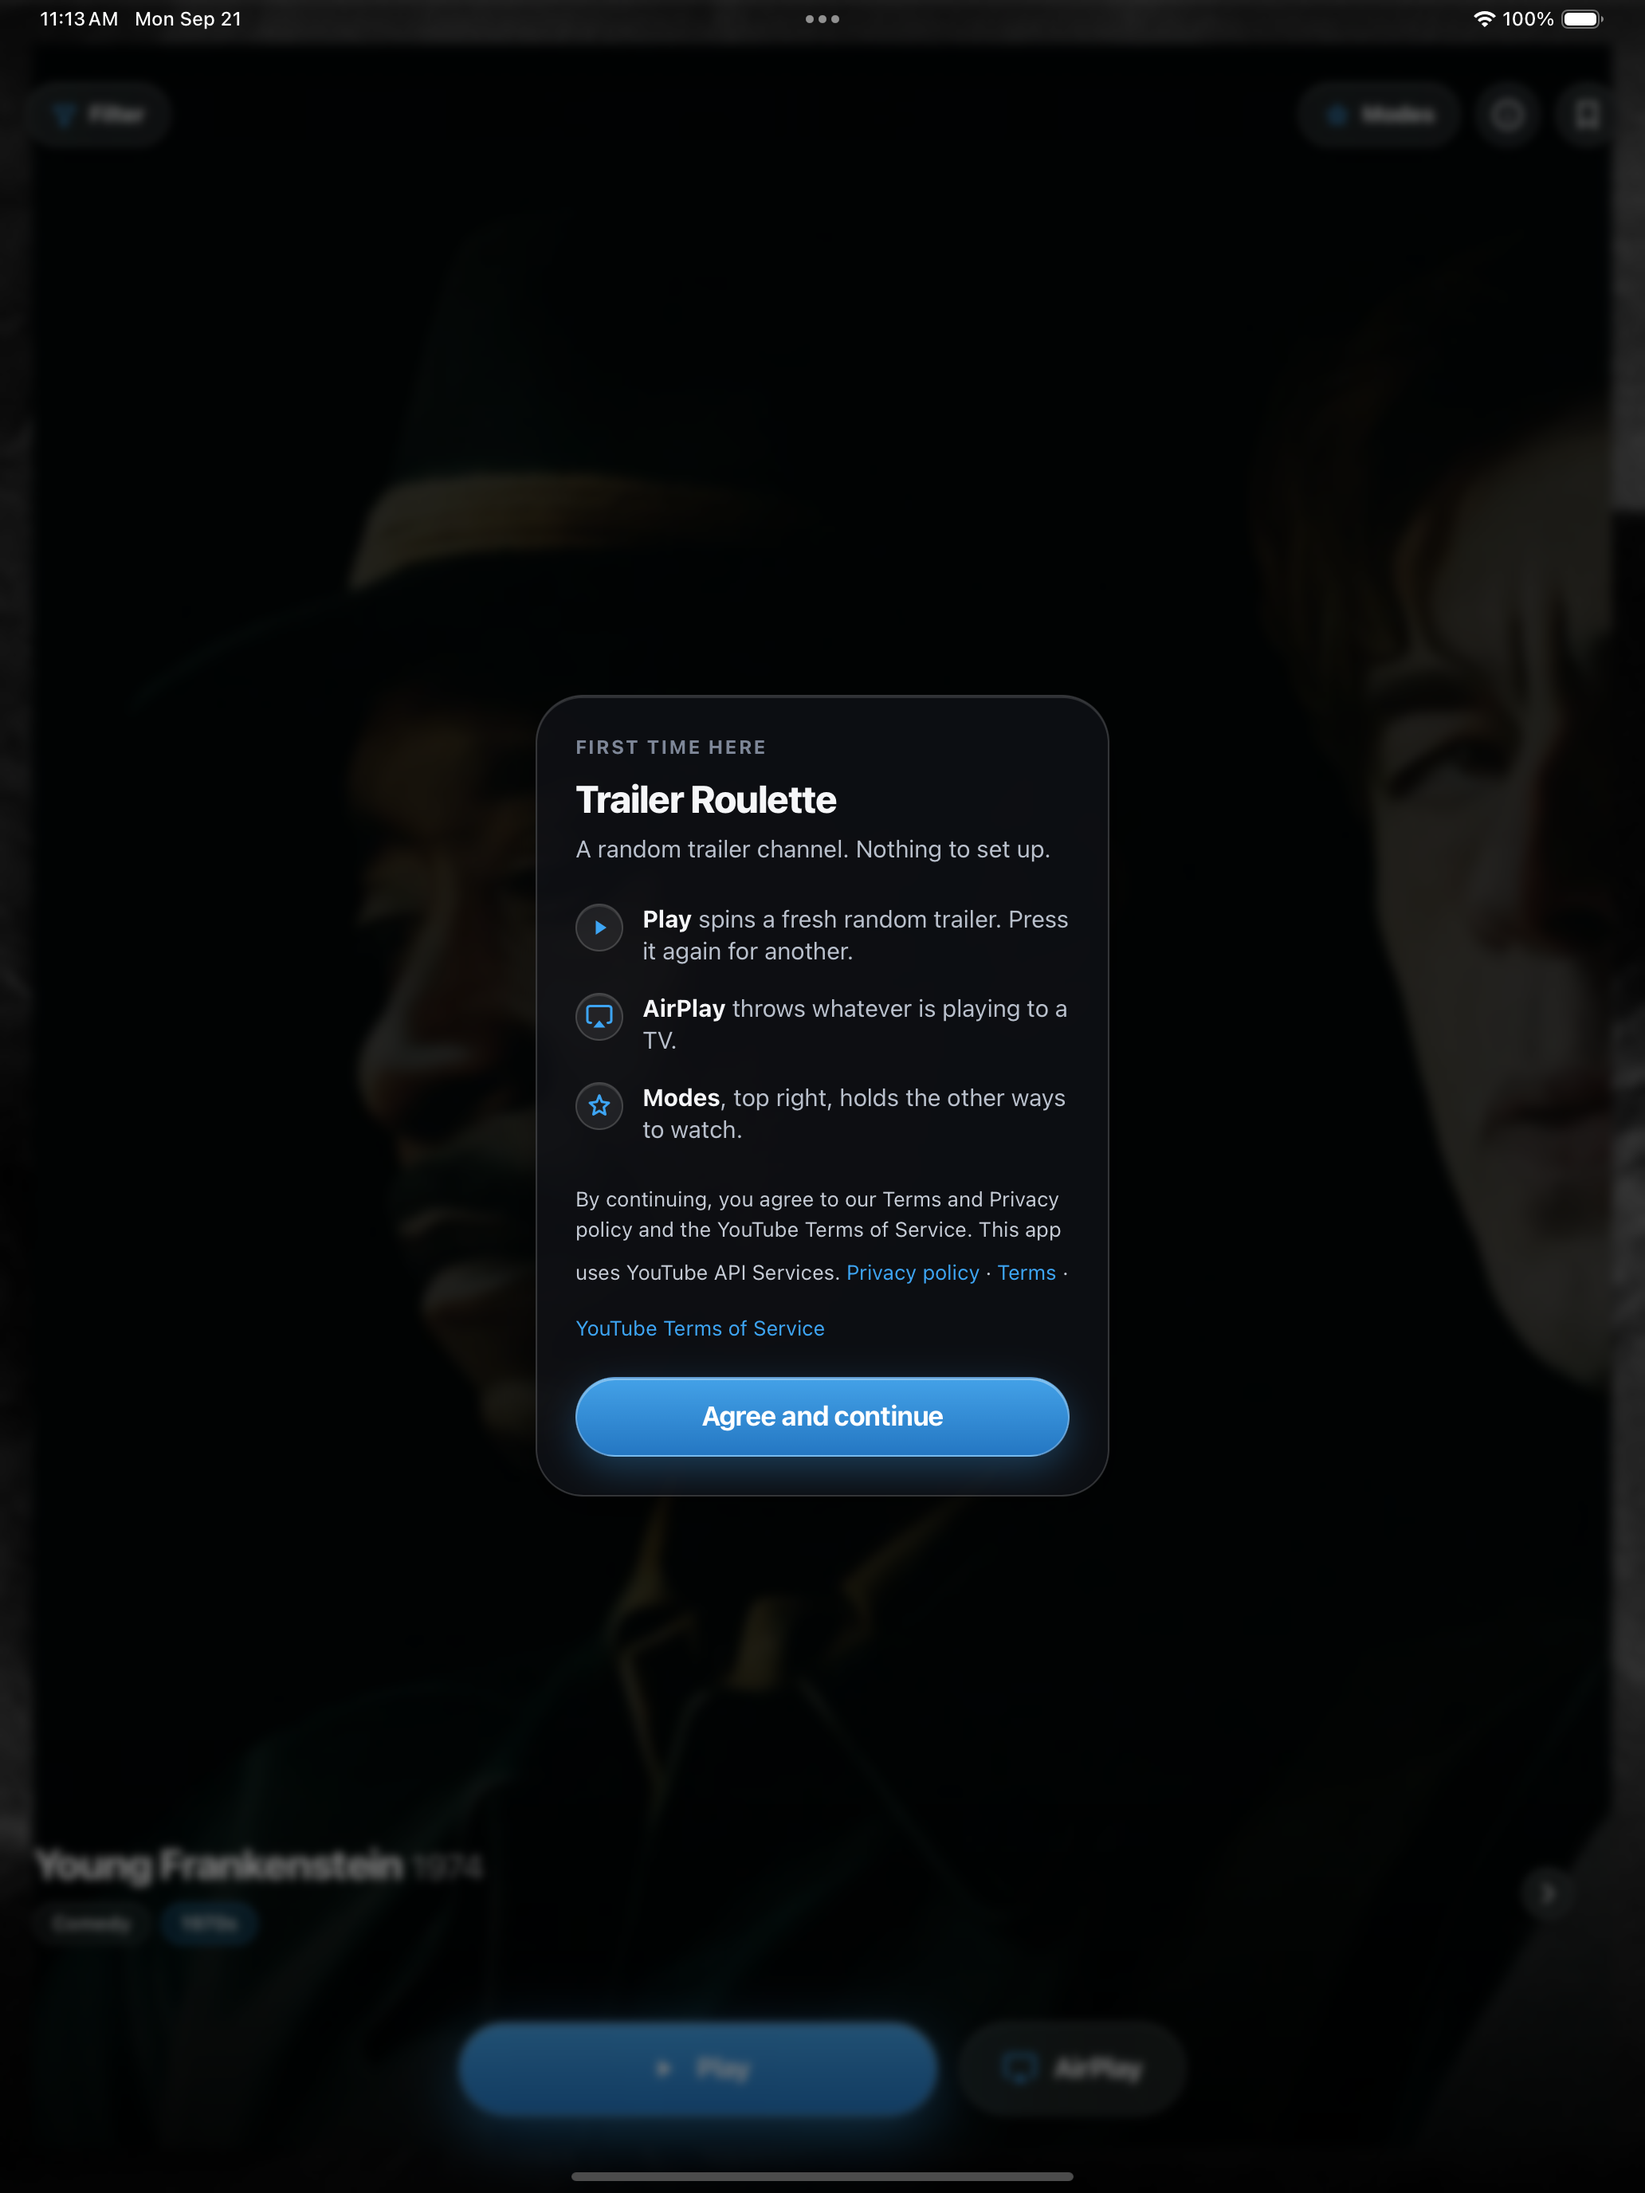
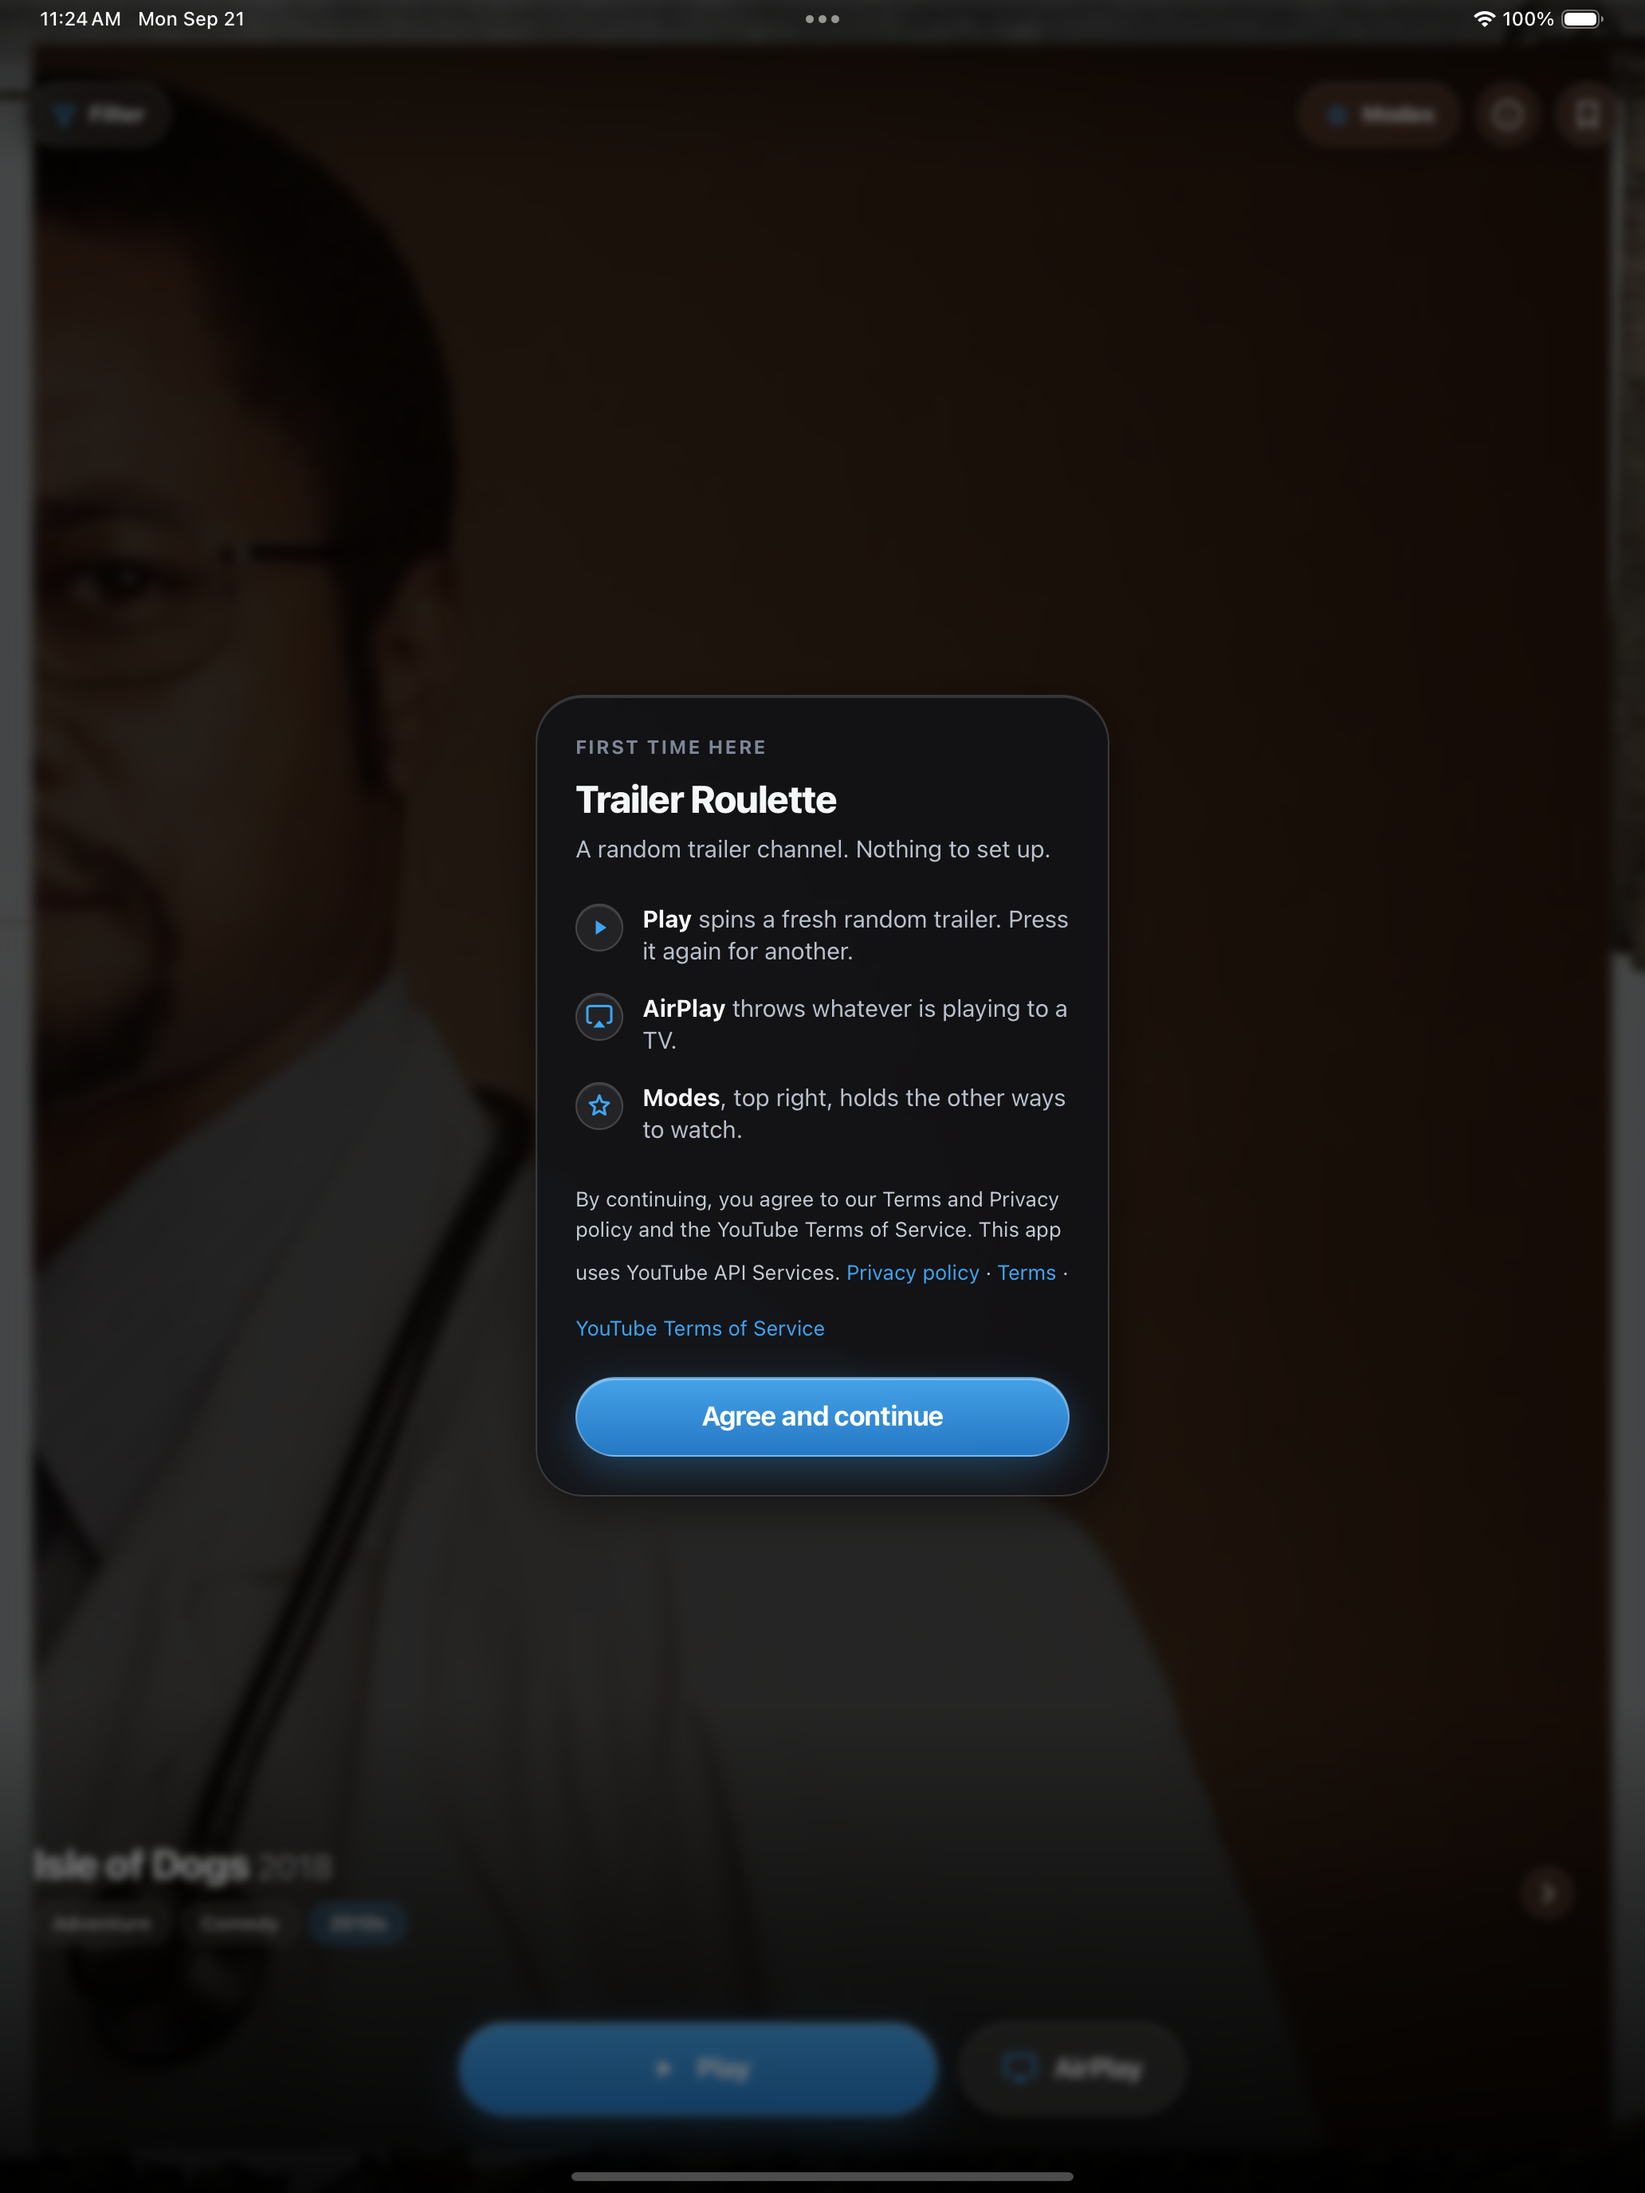
ci(screenshots): abandon the consent preseed after two failures, keep the gate
Preseeding acceptance so the simulator would boot past the consent sheet has now failed twice, both times green and both times silently producing another first-launch frame. First with simctl spawn defaults write, which targets the simulator own defaults domain rather than the app sandbox. Then with a direct write to the data container preferences plist resolved via simctl get_app_container, reading the value back to prove it landed - the read-back is not proof, because the simulator runs its own cfprefsd and a plist written from the host is not what the app sees on next launch. Stopping there rather than trying a third variation of the same idea.

The workflow keeps everything it was actually worth having. One capture per device size, 01-first-launch, at the exact pixel size App Store Connect wants and asserted in CI. It remains the only thing in this repo that runs the app rather than compiling it, and it is what proved the app renders on iOS and that the iPad fix holds on iPadOS rather than only in Chromium. The four near-identical misleading frames are gone; the script and the README both record the two failed approaches so nobody spends the afternoon on a third, and name what getting past the first screen would actually take - an XCUITest target or idb.

Claude-Session: https://claude.ai/code/session_01YbuBXNfF7DbRtekfesvdnd

diff --git a/assets/screenshots/release-3.5.0/native/README.md b/assets/screenshots/release-3.5.0/native/README.md
@@ -4,36 +4,46 @@ Produced by `.github/workflows/ios-screenshots.yml` on a macOS runner, because
 there is no Mac on this project. `xcrun simctl io screenshot` captures at the
 device's native resolution, so these are exactly the sizes App Store Connect
 asks for: **1320 x 2868** (6.9-inch iPhone) and **2064 x 2752** (13-inch iPad).
-The workflow asserts both, so a renamed or resized simulator in a future Xcode
-fails in CI rather than at upload.
+The workflow asserts both and fails on a mismatch, so a renamed or resized
+simulator in a future Xcode is caught in CI rather than at upload.
 
-These are the real iOS renderer, not a browser at phone dimensions. The set
-committed here is from the run that first proved two things:
+These are the real iOS renderer, not a browser at phone dimensions. The first
+run proved two things nothing else in this repo could:
 
 - the app launches and renders on iOS at all — until then, only that it
   compiled;
 - the iPad layout fix (`docs/bugs.md` B7) holds on iPadOS. It had only been
   measured in Chromium at iPad width, which is evidence about the CSS. The
-  13-inch captures fill the screen: no phone-width column, no hairline borders.
+  13-inch capture fills the screen: no phone-width column, no hairline borders.
 
-## What each file is
+## One file per size
 
-- **`01-first-launch`** — fresh container, so the consent sheet is up.
-  Submittable.
-- **`02-after-consent-NNs`** — acceptance preseeded into the app's container
-  plist, so autoplay is armed. A burst at 4, 8, 14 and 22 seconds rather than
-  one guess: the stage is visible only briefly before the native player takes
-  the window, and how long depends on how fast TMDB answers on the runner.
-  Keep whichever lands well. **Any frame showing the player contains YouTube's
-  video** — evidence that the player opens, not a store asset.
+**`01-first-launch`** — a fresh container, so the consent sheet is up over the
+stage. Submittable.
 
-## What it still cannot do
+That is all this can produce, and the limit is real rather than an oversight.
 
-Nothing here taps a button, so there are no native captures of Filter, Modes,
-About this movie or Saved movies. Those need the device test in
-`docs/RELEASE-REVIEW-2026-09.md`, or a follow-on that drives the UI (XCUITest
-or idb). The browser drafts one directory up cover those screens' layout and
-copy, at the right pixel sizes, and say plainly what they are.
+## Why there is nothing past the first screen
+
+Nothing here taps a button, and preseeding the consent acceptance so the app
+would boot past it **does not work from a runner**. Two attempts, both of which
+ran green and both of which silently produced another first-launch frame:
+
+1. `xcrun simctl spawn <udid> defaults write <bundle-id> <key> <value>` — writes
+   the simulator's own defaults domain, not the app sandbox.
+2. `defaults write` against the data container's preferences plist, resolved
+   with `simctl get_app_container`, with the value read back and printed. The
+   read-back is not proof: the simulator runs its own `cfprefsd`, and a plist
+   written from the host is not necessarily what the app sees on next launch.
+
+Do not try a third variation of the same idea. Getting past the first screen
+needs something that actually drives the UI — an XCUITest target, or `idb` —
+which is a separate piece of work.
+
+Until then: the browser drafts one directory up cover Filter, Modes, About this
+movie and the stage at the right pixel sizes and say plainly what they are, and
+the device test in `docs/RELEASE-REVIEW-2026-09.md` is what produces the rest of
+the submitted set.
 
 ## Re-running
 
